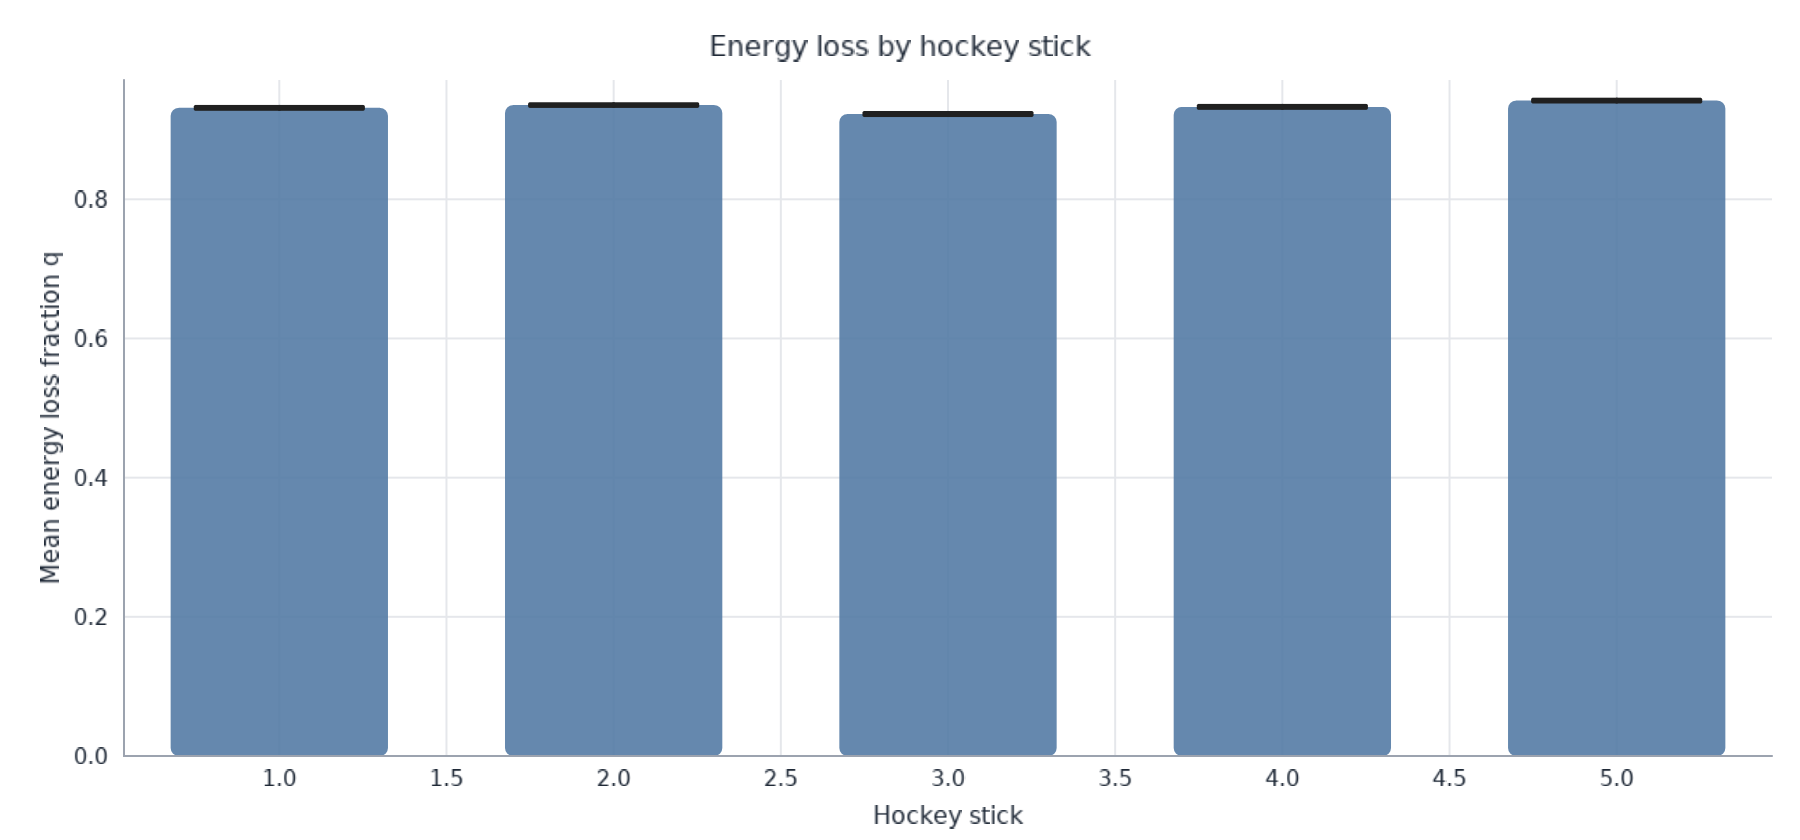
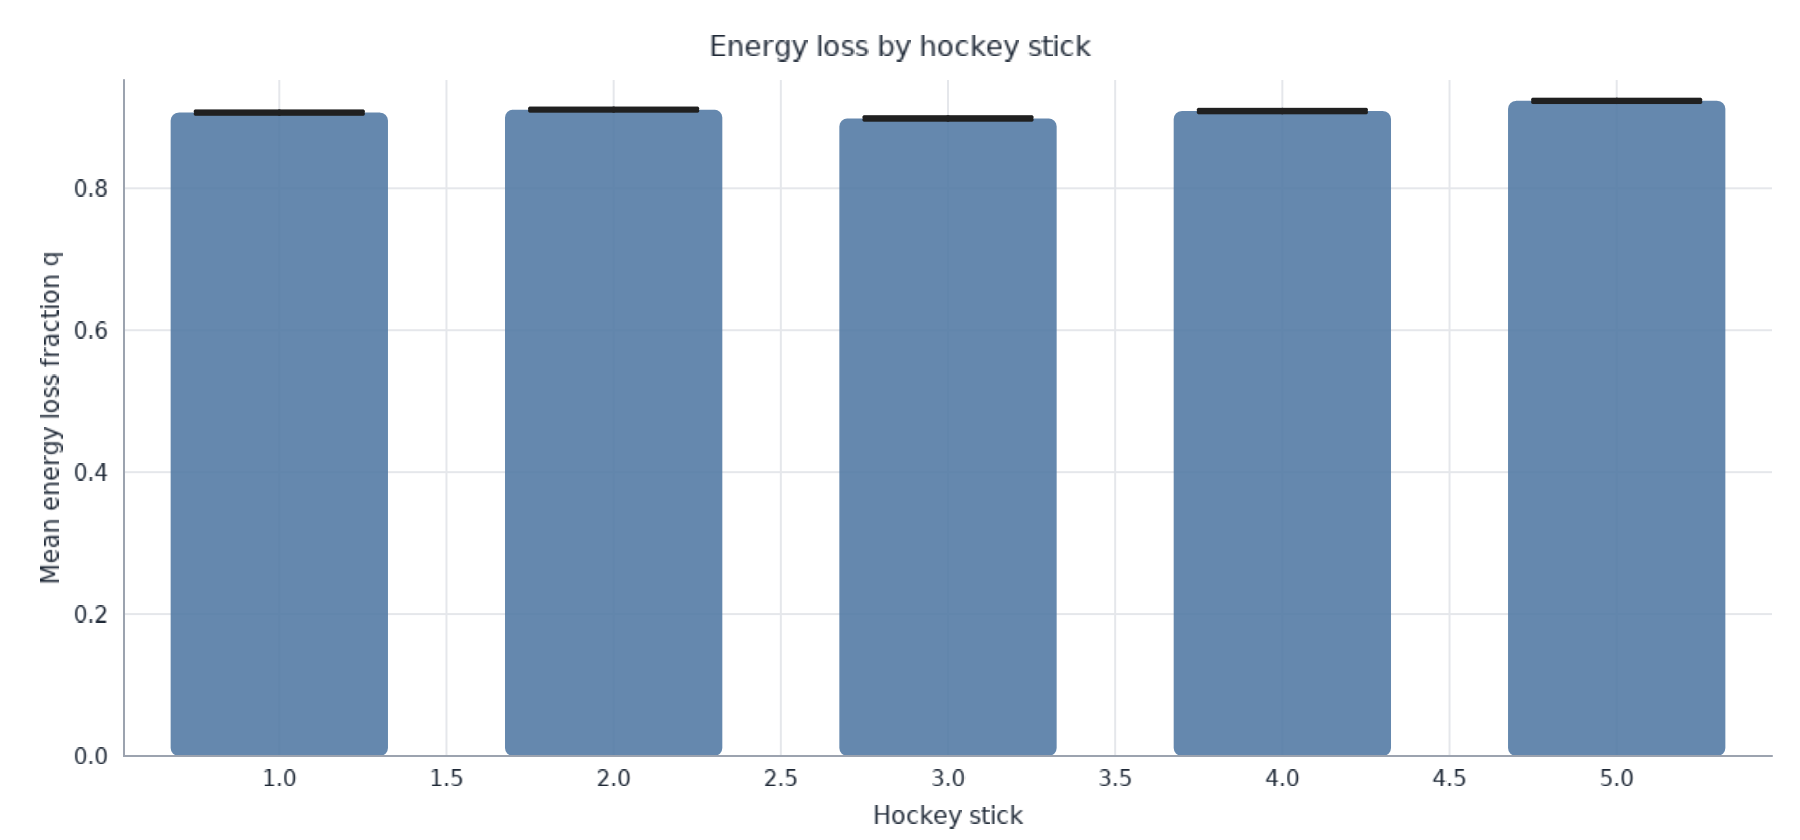
Added moment of inertia code

diff --git a/src/dataverwerking_dynamics_py/__init__.py b/src/dataverwerking_dynamics_py/__init__.py
@@ -7,20 +7,15 @@ import polars as pl
 import xy
 from lmfit import Model
 
-
-
 # Measurments with file nr of first measurement and amount of measurements.
 MEASUREMENTS = {1:(4670,6),2:(4680,6),3:(4688,6),4:(4697,5),5:(4708,5)}
 MEASUREMENT_NRS = [4670,4671,4672,4673,4675,4676,4680,4681,4682,4683,4685,4687,4688,4690,4692,4694,4695,4697,4698,4699,4700,4701,4707,4708,4709,4711,4712,4714,4715,4716,4719]
-
 #Placeholder values
-HOCKEY_STICK_INERTIA_MOMENT = 0.165 # in kgm^2
-HOCKEY_STICK_INERTIA_MOMENT_ERROR = 0.00825  # 5%
-HOCKEY_STICK_INERTIA_MOMENTS = [HOCKEY_STICK_INERTIA_MOMENT for _ in range(5)]
-HOCKEY_STICK_INERTIA_MOMENT_ERRORS = [HOCKEY_STICK_INERTIA_MOMENT_ERROR for _ in range(5)]
+HOCKEY_STICK_INERTIA_MOMENTS = [0.16926240240330787,0.18367484458814398,0.17093826777363766,0.17563069081056104,0.1876969214769355]
+HOCKEY_STICK_INERTIA_MOMENT_ERRORS = [inertia *0.05 for inertia in HOCKEY_STICK_INERTIA_MOMENTS]
 
 ## Constants
-BALL_WEIGHT = 165e-3 # in kg
+BALL_WEIGHT = 165e-3 # in kg; gebasseerd op gemiddelde gewicht volgens internet
 BALL_WEIGHT_ERROR = 5e-3 # in kg
 GRAVITATIONAL_ACCELERATION = 9.81 # in m/s^2
 
@@ -38,12 +33,13 @@ ROLLING_MEAN_N = 5
 FPS = 1200
 
 ## Placeholders
-RADIUS = 0.95 # in m
+RADIUS = 85.75e-2 # in m
 RADIUS_ERROR = 0.5e-3 # in m
 
 def main() -> None:
-    convert_raw_data(os.getcwd())
-    process_q_values(os.getcwd())
+     convert_raw_data(os.getcwd())
+     process_q_values(os.getcwd())
+    # comp_vision_measurement_err(os.getcwd())
 
 def convert_raw_data(project_dir):
     """
@@ -140,10 +136,9 @@ def get_q(project_dir, stick_nr : int, measurement_index : int, measurement_nr: 
 
     ## Get the kinetic energy of the ball.
     ## We use a linear fit for the velocity and then the kinetic energy formula to determine the energy.
-    ball_place = (ball_data_after["x"]**2 + ball_data_after["y"]**2).sqrt()
     ## Summing in quadrature of with same uncertainty doesnt change the uncertainty.
     ball_error = TRACKING_ACCURACY_METERS
-    ball_velocity, ball_velocity_error = get_velocities(ball_place, ball_error)
+    ball_velocity, ball_velocity_error = get_velocities(ball_data_after["x"], ball_error)
 
     ## K = 1/2mv^2
     ball_kinetic_energy = 0.5 * BALL_WEIGHT * ball_velocity**2
@@ -152,9 +147,10 @@ def get_q(project_dir, stick_nr : int, measurement_index : int, measurement_nr: 
 
     ## Calculate the energy going to height.
     ## Videos are inverted and y goes down so we take the difference the same way as normal.
+    ## take the max since y velocity isnt taking in to consideration for kinetic energy after.
     rolling_mean_height_after = ball_data_after["y"].rolling_mean(window_size = ROLLING_MEAN_N).drop_nulls()
     rolling_mean_height_before = ball_data_before["y"].rolling_mean(window_size = ROLLING_MEAN_N).drop_nulls()
-    height_difference =  cast(float, rolling_mean_height_after[0]) - cast(float, rolling_mean_height_before[-1])
+    height_difference =  cast(float,(rolling_mean_height_after - cast(float, rolling_mean_height_before[-1])).max())
     ## U = m*g*h
     height_energy_gained = BALL_WEIGHT * GRAVITATIONAL_ACCELERATION * height_difference
     height_energy_gained_error = np.sqrt(
@@ -298,3 +294,45 @@ def process_q_values(project_dir):
     )
 
     chart.to_png("output.png")
+
+
+
+
+
+def comp_vision_measurement_err(project_dir) :
+    ## Get the computer vision data and human data for 4707
+    cv_data =  pl.read_csv(f"{project_dir}\\ball_data_before\\data_DSC_4707_before.csv", separator = ",")
+    human_data =  pl.read_csv(f"{project_dir}\\Results2.csv", separator = ",")
+
+    # Remove duplicate last frame and rescale.
+    cv_data = cv_data.unique(maintain_order=True)
+    cv_data *= PIXEL_SCALING_FACTOR
+
+    # Get the rolling standard deviation to check the internal validity of the measurements.
+    # Since there are basically no forces acting the standard deviation should reveal the uncertainty in the measurement.
+    # Using a rolling std we dont compare the start speed to end speed, this minimizes the effect of any actual forces acting on the ball.
+    print(cast(float,  human_data["X"].diff().mean())*12*3.6, cast(float,cv_data["x"].diff().mean()) *12 *3.6)
+    print(cast(float,  human_data["X"].diff().rolling_std(window_size = 5).mean())*12*3.6, cast(float,cv_data["x"].diff().rolling_std(window_size = 5).mean()) *12 *3.6)
+
+def get_maximum_comp_vision_std(project_dir,window_size):
+    max_seen = 0
+    seen_on= 0
+    speeds = []
+    for metingnr in range(1,6):
+        start_measurement, amount_measurements = MEASUREMENTS[metingnr]
+        start_measurement_index = MEASUREMENT_NRS.index(start_measurement)
+        for i in range(amount_measurements):
+            measurement_nr =MEASUREMENT_NRS[start_measurement_index + i]
+            ball_data_before = pl.read_csv(f"{project_dir}\\ball_data_before\\data_DSC_{measurement_nr}_before.csv", separator = ",")
+            ball_data_before = ball_data_before.unique(maintain_order=True)
+            ball_data_before *= PIXEL_SCALING_FACTOR
+
+            mean_std = ball_data_before["x"].diff().rolling_std(window_size=window_size).mean()
+            avg_speed = cast(float,(ball_data_before["x"].diff(n=DIFF_N)/DIFF_N).mean())*12 * 3.6;
+            speeds.append(avg_speed)
+            ##print(measurement_nr, mean_std)
+            if isinstance(mean_std,float) and mean_std> max_seen :
+                max_seen = mean_std
+                seen_on = measurement_nr
+    print(*[f"{i}: {x:.2f}km/h\n" for i,x in enumerate(speeds)])
+    return max_seen, seen_on

diff --git a/src/dataverwerking_dynamics_py/massa_traagheids_moment.py b/src/dataverwerking_dynamics_py/massa_traagheids_moment.py
@@ -1,0 +1,34 @@
+import numpy as np
+
+massa_stick = 0.524  # kg
+
+# staaf (cilinder), in meter
+diameter_stick = 3.15e-2
+straal_stick = diameter_stick / 2
+lengte_staaf = 85.75e-2
+
+# blok, in meter
+hoogte_blok = 15e-3      # afmeting langs de bewegingsrichting
+breedte_blok = 7.6e-2          # afmeting langs de staaf
+lengte_blok = 11.3e-2         # afmeting langs de draaias van de hockeystick
+
+volume_staaf = np.pi * straal_stick**2 * lengte_staaf
+volume_blok = hoogte_blok * breedte_blok * lengte_blok
+
+dichtheid = massa_stick / (volume_staaf + volume_blok)
+massa_staaf = dichtheid * volume_staaf
+massa_blok = dichtheid * volume_blok
+
+# afstand van het massamiddelpunt tot de draaias
+d_staaf = lengte_staaf / 2
+d_blok = lengte_staaf + breedte_blok / 2
+
+# traagheidsmomenten van elk onderdeel
+I_staaf = (1/3) * massa_staaf * lengte_staaf**2
+I_blok = (1/12)*massa_blok*(breedte_blok**2 + hoogte_blok**2) + massa_blok*d_blok**2
+
+I_totaal = I_staaf + I_blok
+
+
+if __name__ == "__main__":
+    print(I_totaal)
